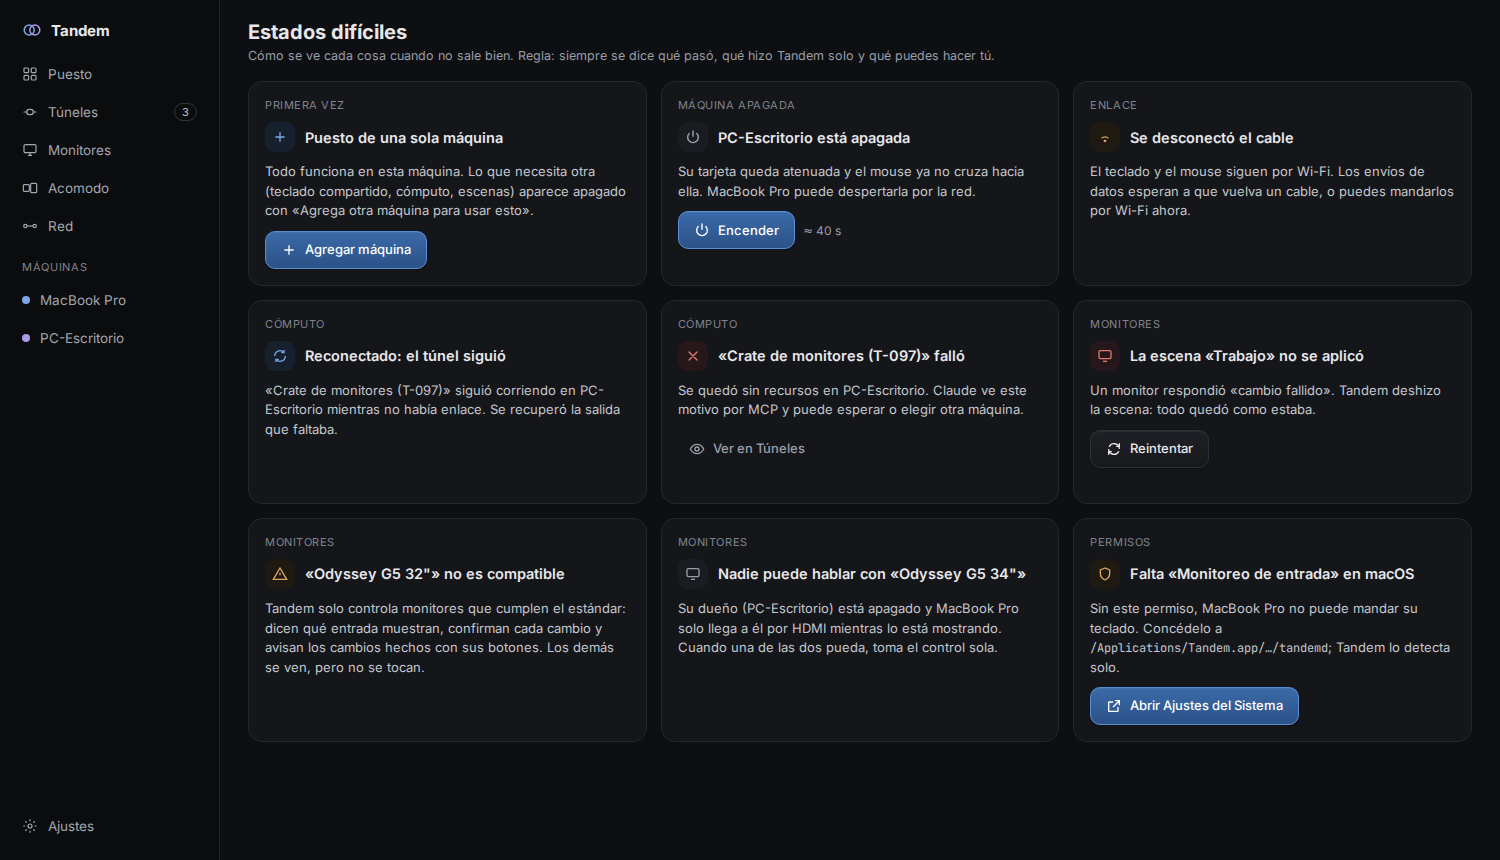
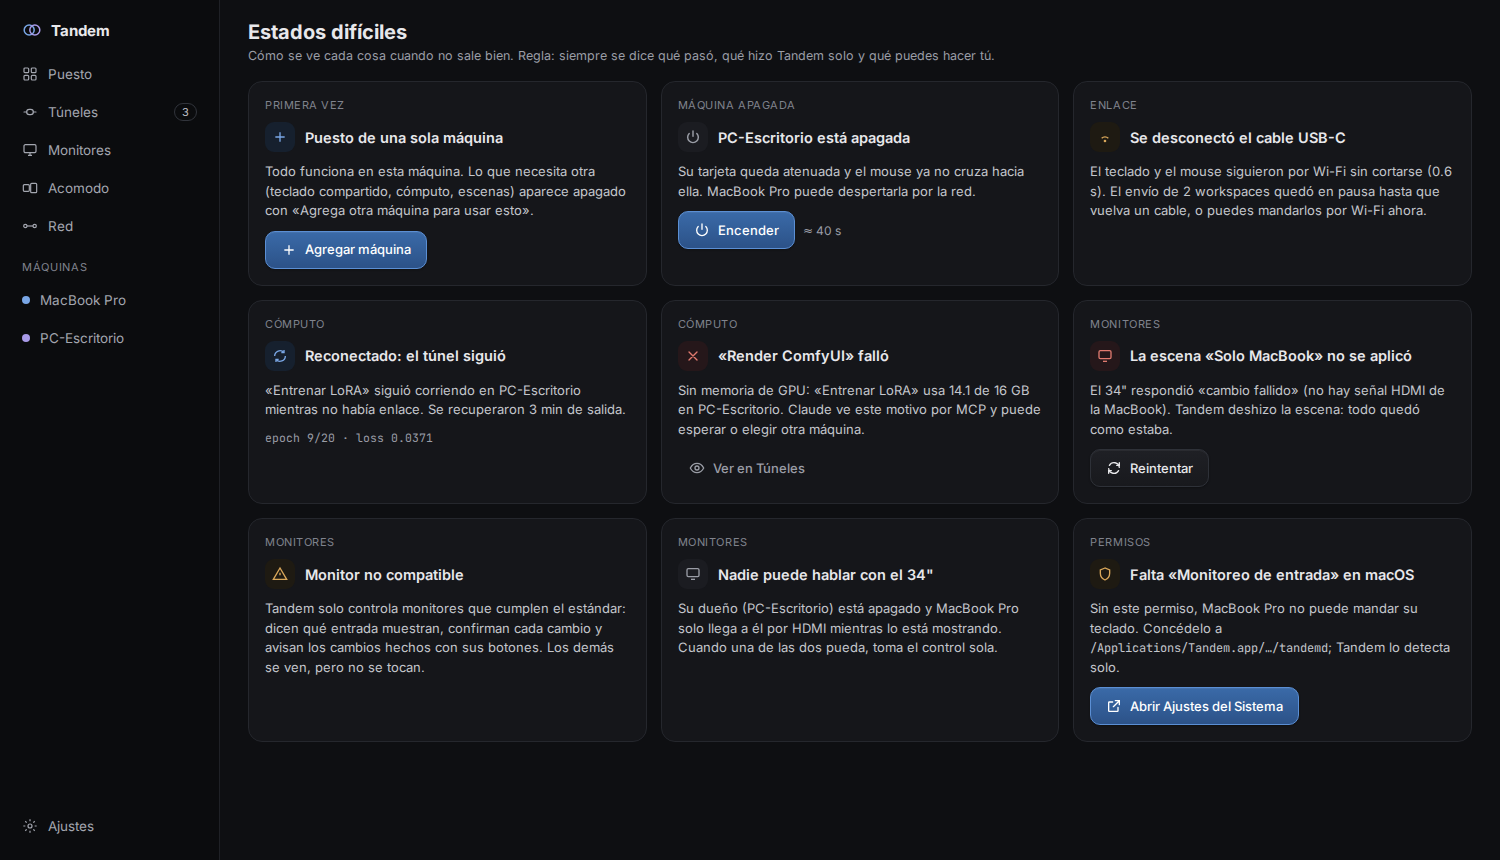
Estados: demo con los textos del mockup y sin máscaras de títulos, textos ni botones

diff --git a/apps/tandem-ui/src/lib/states.ts b/apps/tandem-ui/src/lib/states.ts
@@ -63,7 +63,24 @@ export interface StateContext {
   gallery: boolean;
   /** La última escena que no se pudo aplicar (la guarda el store al ver el fallo). */
   failedScene: { id: string; name: string } | null;
+  /** `?demo&estados`: los textos de ejemplo de `V3-Estados` (nombres, cifras), para compararlos con el mockup. */
+  example?: boolean;
 }
+
+/** Los textos de ejemplo del mockup, por tarjeta: lo único que cambia respecto a la galería genérica. */
+const EXAMPLE: Record<string, Partial<Pick<StateCardSpec, "title" | "body" | "mono" | "code">>> = {
+  off: { title: "PC-Escritorio está apagada", body: "Su tarjeta queda atenuada y el mouse ya no cruza hacia ella. MacBook Pro puede despertarla por la red." },
+  cable: {
+    title: "Se desconectó el cable USB-C",
+    body: "El teclado y el mouse siguieron por Wi-Fi sin cortarse (0.6 s). El envío de 2 workspaces quedó en pausa hasta que vuelva un cable, o puedes mandarlos por Wi-Fi ahora.",
+  },
+  resumed: { body: "«Entrenar LoRA» siguió corriendo en PC-Escritorio mientras no había enlace. Se recuperaron 3 min de salida.", mono: "epoch 9/20 · loss 0.0371" },
+  failed: { title: "«Render ComfyUI» falló", body: "Sin memoria de GPU: «Entrenar LoRA» usa 14.1 de 16 GB en PC-Escritorio. Claude ve este motivo por MCP y puede esperar o elegir otra máquina." },
+  scene: { title: "La escena «Solo MacBook» no se aplicó", body: "El 34\" respondió «cambio fallido» (no hay señal HDMI de la MacBook). Tandem deshizo la escena: todo quedó como estaba." },
+  unsupported: { title: "Monitor no compatible" },
+  nobody: { title: "Nadie puede hablar con el 34\"", body: "Su dueño (PC-Escritorio) está apagado y MacBook Pro solo llega a él por HDMI mientras lo está mostrando. Cuando una de las dos pueda, toma el control sola." },
+  permission: { title: "Falta «Monitoreo de entrada» en macOS", body: "Sin este permiso, MacBook Pro no puede mandar su teclado. Concédelo a {code}; Tandem lo detecta solo.", code: "/Applications/Tandem.app/…/tandemd" },
+};
 
 /** Las tarjetas que aplican (o las nueve en la galería), en el orden del mockup. */
 export function stateCards(d: DeskView, ctx: StateContext = { gallery: false, failedScene: null }): StateCardSpec[] {
@@ -190,5 +207,5 @@ export function stateCards(d: DeskView, ctx: StateContext = { gallery: false, fa
         }
       : null,
   ];
-  return cards.filter((c): c is StateCardSpec => c !== null);
+  return cards.filter((c): c is StateCardSpec => c !== null).map((c) => (ctx.example && EXAMPLE[c.id] ? { ...c, ...EXAMPLE[c.id] } : c));
 }

diff --git a/apps/tandem-ui/scripts/shots-spec.ts b/apps/tandem-ui/scripts/shots-spec.ts
@@ -303,27 +303,18 @@ export const AJUSTES: ShotSpec[] = [
 export const ESTADOS: ShotSpec = {
   name: "estados",
   page: "index.html",
-  query: DEMO,
+  // `?estados` siembra los textos de ejemplo del mockup (nombres, cifras): se compara todo.
+  query: `${DEMO}&estados`,
   hash: "#/estados",
   mockup: "V3-Estados",
   width: W,
   height: H,
   content: {
     appWidth: 220 + 2 * 28 + (1280 - 2 * 28),
-    // La segunda fila de tarjetas del mockup mide 204,5 px; la de la app, con los textos reales (sin
-    // el estado de entrenamiento ni «Render ComfyUI» inventados), mide menos. Se iguala para comparar el resto.
-    appStyle: 'nav[aria-label="Principal"] { flex: 0 0 220px !important; } .grid > article:nth-child(n+4):nth-child(-n+6) { box-sizing: border-box; min-height: 204.5px; }',
+    appStyle: 'nav[aria-label="Principal"] { flex: 0 0 220px !important; }',
     app: "main .head",
     mockup: "h1",
-    masks: [
-      { app: NONE, mockup: 'button.btn:has-text("Enviar por Wi-Fi igual")', reason: "El agente no tiene «enviar por Wi-Fi igual»: sin función, sin botón" },
-      ...[3, 4, 5, 6, 7, 8, 9].flatMap((n) => [
-        { app: `.grid > article:nth-child(${n}) .hd`, mockup: `article.st:nth-child(${n}) .hd`, reason: "Datos reales: el título nombra el monitor, la escena o el trabajo del puesto" },
-        { app: `.grid > article:nth-child(${n}) p`, mockup: `article.st:nth-child(${n}) p`, reason: "Datos reales: el texto solo dice lo que el agente sabe (sin cifras ni nombres de ejemplo)" },
-      ]),
-      ...[4, 5, 6, 9].map((n) => ({ app: `.grid > article:nth-child(${n}) .act`, mockup: `article.st:nth-child(${n}) .btn`, reason: "Con el texto real, más corto, el botón queda más arriba" })),
-      { app: NONE, mockup: "article.st:nth-child(4) .mono.mut", reason: "Estado de entrenamiento inventado: el agente no lo cuenta" },
-    ],
+    masks: [{ app: NONE, mockup: 'button.btn:has-text("Enviar por Wi-Fi igual")', reason: "El agente no tiene «enviar por Wi-Fi igual»: sin función, sin botón" }],
     min: SIDEBAR_GATE,
   },
 };

diff --git a/apps/tandem-ui/src/screens/estados.test.ts b/apps/tandem-ui/src/screens/estados.test.ts
@@ -40,6 +40,14 @@ describe("lib/states: qué tarjetas aplican", () => {
     expect(stateCards(base)[0].title).toMatch(/^«.+» no es compatible$/);
   });
 
+  it("con `example` (`?demo&estados`) las nueve tarjetas traen los textos del mockup, solo en la galería de ejemplo", () => {
+    const cards = stateCards(base, { ...GALLERY, example: true });
+    expect(cards).toHaveLength(9);
+    expect(JSON.stringify(cards)).toContain("epoch 9/20 · loss 0.0371");
+    expect(cards.find((c) => c.id === "unsupported")?.title).toBe("Monitor no compatible");
+    expect(JSON.stringify(stateCards(base, GALLERY))).not.toContain("Se recuperaron 3 min");
+  });
+
   it("la otra máquina apagada, un solo Wi-Fi, sin otra máquina y el permiso faltante salen solos", () => {
     expect(ids(demoDesk(demoOptions("demo&still&trouble=peer-off")))).toContain("off");
     expect(ids(demoDesk(demoOptions("demo&still&trouble=link-down")))).toContain("cable");

diff --git a/apps/tandem-ui/src/screens/Estados.svelte b/apps/tandem-ui/src/screens/Estados.svelte
@@ -8,7 +8,7 @@
 
   const store = useStore();
   const desk = $derived(store.desk);
-  const cards = $derived(stateCards(desk, { gallery: store.demo, failedScene: store.failedScene }));
+  const cards = $derived(stateCards(desk, { gallery: store.demo, failedScene: store.failedScene, example: store.demo && new URLSearchParams(location.search).has("estados") }));
   const peer = $derived(desk.here === "a" ? "b" : "a");
 
   function run(does: StateDo, sceneId?: string) {
